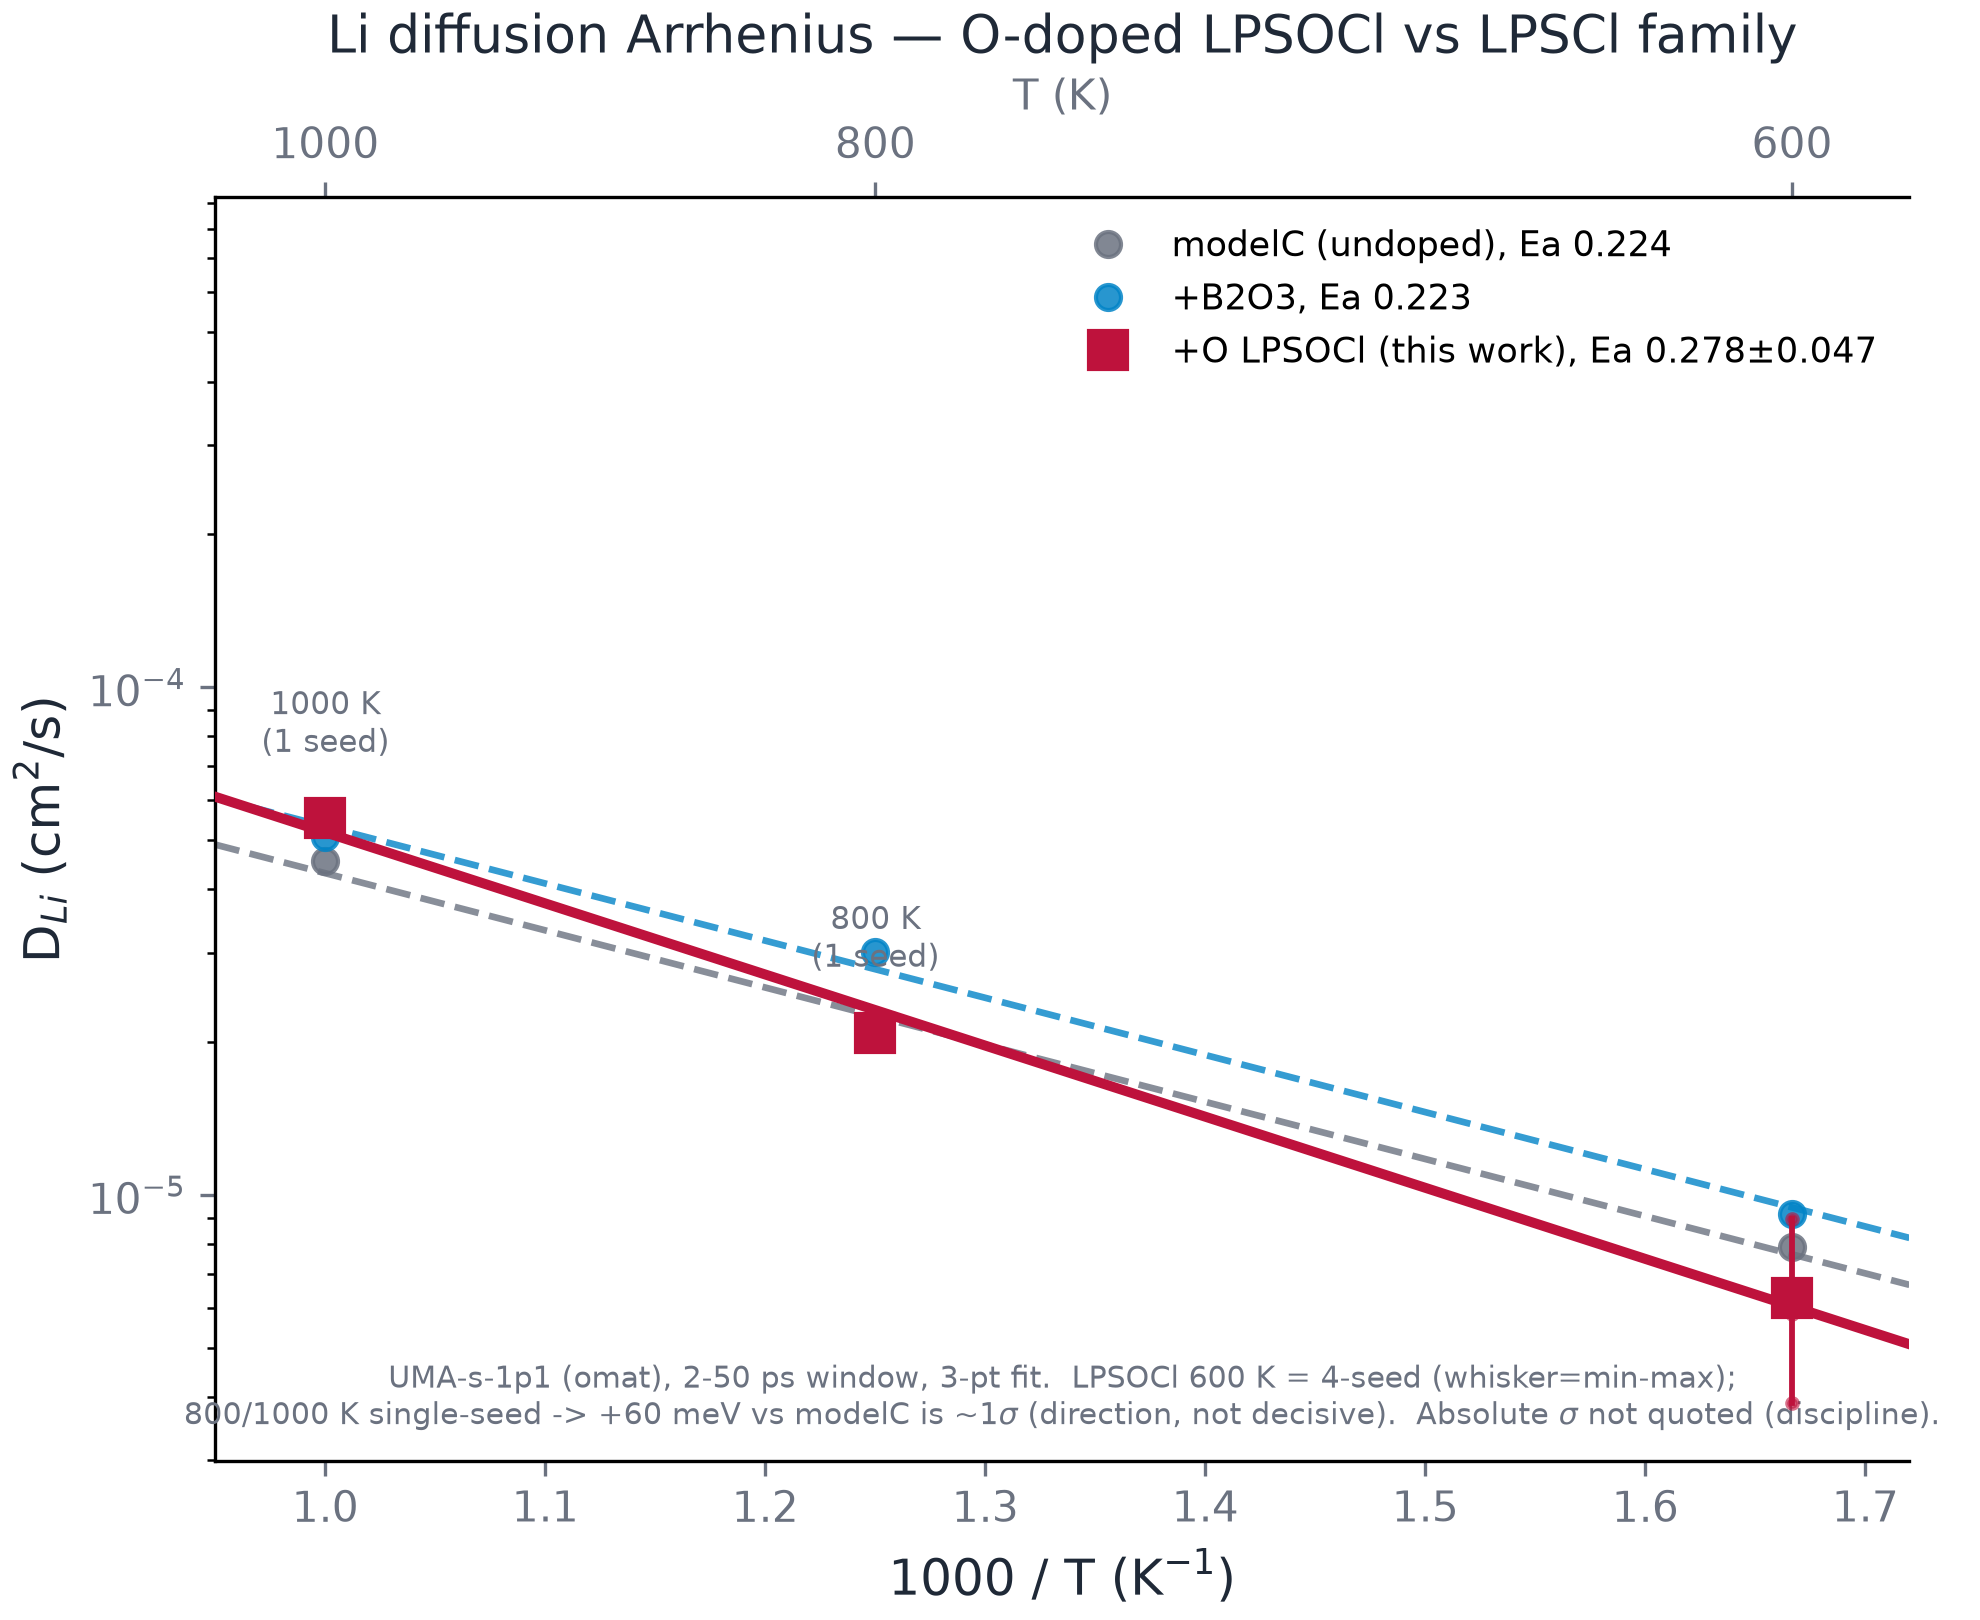
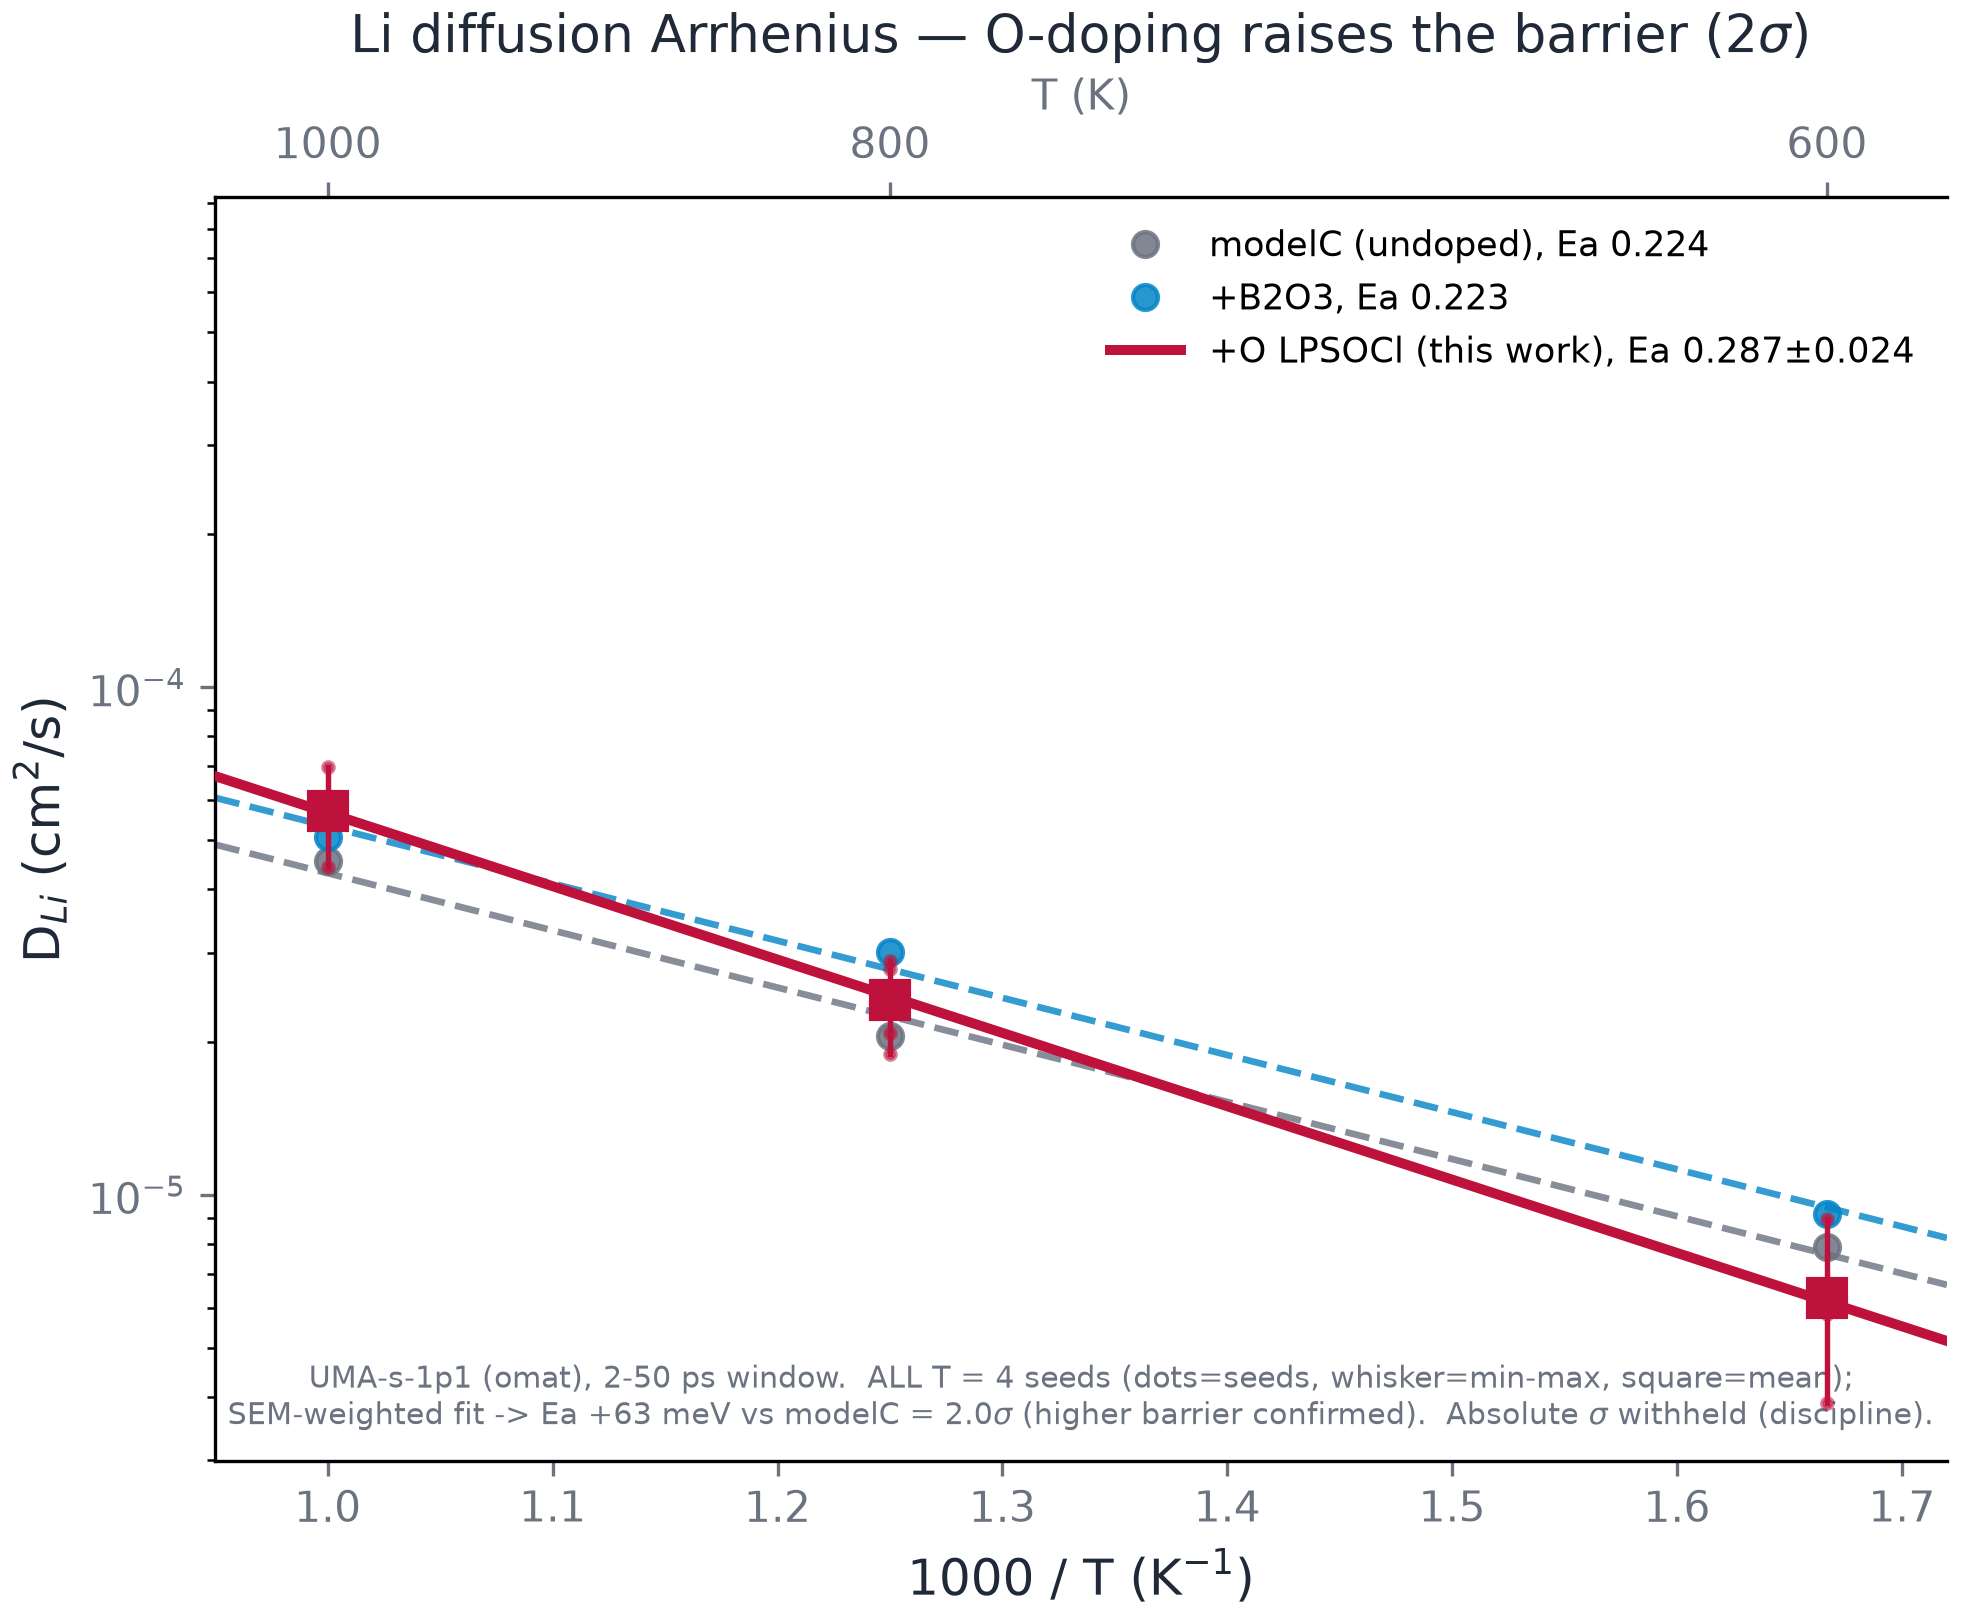
lpsocl MD: multiseed Arrhenius COMPLETE (4 seeds x 3T). Ea 0.287+/-0.024 eV (SEM-weighted), +63 meV vs modelc/b2o3 = 2.0sigma -> O-doping raises Li barrier CONFIRMED (was 1sigma w/ single-seed hiT). Figure: 4-seed whiskers all T
Claude-Session: https://claude.ai/code/session_01L44TWYrHkcm4PH5ihWSSCw

diff --git a/tools/ionic/fig_lpsocl_arrhenius.py b/tools/ionic/fig_lpsocl_arrhenius.py
@@ -23,17 +23,26 @@ kB = 8.617333e-5
 T = np.array([600., 800., 1000.])
 invT = 1000.0 / T  # 1000/T axis
 
-# --- LPSOCl (this work) ---
-D600_seeds = np.array([3.887e-6, 6.405e-6, 5.820e-6, 8.970e-6])
-D600 = D600_seeds.mean()
-D600_lo, D600_hi = D600_seeds.min(), D600_seeds.max()
-D800, D1000 = 2.085e-5, 5.525e-5
-Dl = np.array([D600, D800, D1000])
-sl, bl = np.polyfit(invT / 1000.0 * 1000.0, np.log(Dl), 1)  # fit in 1/T
-s_lp, b_lp = np.polyfit(1 / T, np.log(Dl), 1)
+# --- LPSOCl (this work): 4 seeds (ladder=s1 + reseeds s2/s3/s4) x 3 T, 2026-07-18 ---
+SEEDS = np.array([
+    [3.887e-6, 2.085e-5, 5.525e-5],   # s1 (ladder)
+    [6.405e-6, 2.789e-5, 6.962e-5],   # s2
+    [5.820e-6, 1.896e-5, 4.428e-5],   # s3
+    [8.970e-6, 2.895e-5, 5.922e-5],   # s4
+])
+Dl = SEEDS.mean(0)                      # per-T mean
+Dsem = SEEDS.std(0, ddof=1) / np.sqrt(len(SEEDS))
+Dlo, Dhi = SEEDS.min(0), SEEDS.max(0)
+# SEM-weighted Arrhenius fit (all 4 seeds inform each T mean)
+lnErr = Dsem / Dl
+w = 1 / lnErr ** 2
+xv = 1 / T
+Dm = np.linalg.solve(
+    np.array([[w.sum(), (w * xv).sum()], [(w * xv).sum(), (w * xv * xv).sum()]]),
+    np.array([(w * np.log(Dl)).sum(), (w * xv * np.log(Dl)).sum()]))
+b_lp, s_lp = Dm[0], Dm[1]
 Ea_lp = -s_lp * kB
-Ea_seeds = np.array([-np.polyfit(1 / T, np.log([d, D800, D1000]), 1)[0] * kB for d in D600_seeds])
-Ea_err = Ea_seeds.std(ddof=1)
+Ea_err = np.sqrt(w.sum() / (w.sum() * (w * xv * xv).sum() - (w * xv).sum() ** 2)) * kB
 
 # --- anchors ---
 Dmod = np.array([7.901e-6, 2.054e-5, 4.554e-5]); Ea_mod = 0.2235
@@ -55,16 +64,13 @@ for D3, Ea, c, lab in [(Dmod, Ea_mod, SYS["modelc"], f"modelC (undoped), Ea {Ea_
     ax.plot(xfit, np.exp(b + s * xfit / 1000.0), "--", color=c, lw=1.6, alpha=0.8, zorder=2)
     ax.plot(invT, D3, "o", color=c, ms=6, alpha=0.85, zorder=3, label=lab)
 
-# LPSOCl fit line + points
-ax.plot(xfit, np.exp(b_lp + s_lp * xfit / 1000.0), "-", color=SYS["lpsocl"], lw=2.4, zorder=4)
-# 600 K with min-max whisker (4 seeds)
-ax.plot([invT[0]], [D600], "s", color=SYS["lpsocl"], ms=9, zorder=6,
+# LPSOCl fit line + points (4 seeds at every T)
+ax.plot(xfit, np.exp(b_lp + s_lp * xfit / 1000.0), "-", color=SYS["lpsocl"], lw=2.4, zorder=4,
         label=f"+O LPSOCl (this work), Ea {Ea_lp:.3f}$\\pm${Ea_err:.3f}")
-ax.plot([invT[0], invT[0]], [D600_lo, D600_hi], "-", color=SYS["lpsocl"], lw=1.4, zorder=5)
-ax.plot([invT[0]] * len(D600_seeds), D600_seeds, ".", color=SYS["lpsocl"], ms=5, alpha=0.6, zorder=6)
-ax.plot(invT[1:], Dl[1:], "s", color=SYS["lpsocl"], ms=9, zorder=6)
-for x, d, t in zip(invT[1:], Dl[1:], ["800 K\n(1 seed)", "1000 K\n(1 seed)"]):
-    ax.text(x, d * 1.35, t, fontsize=7.5, color=MUT, ha="center")
+for i in range(3):
+    ax.plot([invT[i], invT[i]], [Dlo[i], Dhi[i]], "-", color=SYS["lpsocl"], lw=1.3, zorder=5)
+    ax.plot([invT[i]] * len(SEEDS), SEEDS[:, i], ".", color=SYS["lpsocl"], ms=5, alpha=0.55, zorder=6)
+    ax.plot([invT[i]], [Dl[i]], "s", color=SYS["lpsocl"], ms=9, zorder=7)
 
 ax.set_yscale("log")
 ax.set_xlim(0.95, 1.72)
@@ -73,12 +79,12 @@ sec.set_xlabel("T (K)", fontsize=10, color=MUT)
 sec.set_xticks([1000, 800, 600]); sec.set_xticklabels(["1000", "800", "600"])
 sec.tick_params(colors=MUT)
 apply_axes(ax, xlabel="1000 / T (K$^{-1}$)", ylabel="D$_{Li}$ (cm$^2$/s)",
-           title="Li diffusion Arrhenius — O-doped LPSOCl vs LPSCl family")
+           title="Li diffusion Arrhenius — O-doping raises the barrier (2$\\sigma$)")
 ax.legend(loc="upper right", fontsize=8.5, frameon=False)
 ax.text(0.5, 0.02,
-        "UMA-s-1p1 (omat), 2-50 ps window, 3-pt fit.  LPSOCl 600 K = 4-seed (whisker=min-max);\n"
-        "800/1000 K single-seed -> +60 meV vs modelC is ~1$\\sigma$ (direction, not decisive).  "
-        "Absolute $\\sigma$ not quoted (discipline).",
+        "UMA-s-1p1 (omat), 2-50 ps window.  ALL T = 4 seeds (dots=seeds, whisker=min-max, square=mean);\n"
+        "SEM-weighted fit -> Ea +63 meV vs modelC = 2.0$\\sigma$ (higher barrier confirmed).  "
+        "Absolute $\\sigma$ withheld (discipline).",
         transform=ax.transAxes, fontsize=7.3, color=MUT, va="bottom", ha="center")
 
 OUTD = REPO / "docs/figures/lpsocl"; OUTD.mkdir(parents=True, exist_ok=True)
@@ -93,11 +99,13 @@ with open(csvp, "w", newline="") as f:
     for x, tt, d in zip(invT, T, Dl):
         w.writerow(["LPSOCl", f"{x:.4f}", int(tt), f"{d:.4e}",
                     "600K=4seed mean" if tt == 600 else "single seed"])
-    for s in D600_seeds:
-        w.writerow(["LPSOCl_600seed", f"{invT[0]:.4f}", 600, f"{s:.4e}", "individual seed"])
+    for si, row in enumerate(SEEDS, 1):
+        for x, tt, d in zip(invT, T, row):
+            w.writerow([f"LPSOCl_s{si}", f"{x:.4f}", int(tt), f"{d:.4e}", "individual seed"])
     for x, tt, d in zip(invT, T, Dmod):
         w.writerow(["modelC", f"{x:.4f}", int(tt), f"{d:.4e}", "anchor"])
     for x, tt, d in zip(invT, T, Db):
         w.writerow(["b2o3", f"{x:.4f}", int(tt), f"{d:.4e}", "anchor"])
 print("->", csvp)
-print(f"Ea LPSOCl {Ea_lp:.4f} +/- {Ea_err:.4f} eV | seeds {Ea_seeds.round(3)}")
+Eas = np.array([-np.polyfit(xv, np.log(m), 1)[0] * kB for m in SEEDS])
+print(f"Ea LPSOCl {Ea_lp:.4f} +/- {Ea_err:.4f} eV (SEM-weighted) | per-seed {Eas.round(3)}")
